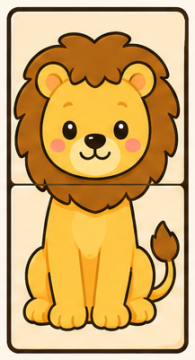
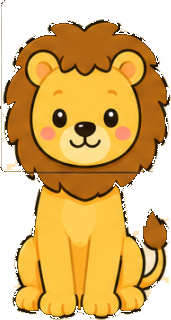
動物画像を全て背景なしの切り抜きに統一し、盤面のふちと枠線を撤廃
- リス・シマウマ・ライオン・キリン・ゾウの画像から、クリーム色の
  カード背景・縁取り枠を除去し、透過背景の切り抜きに統一
- 茂み画像も同様にカードの縁取りを除去し、マスにそのまま置くだけの
  切り抜きに変更
- BoardCell/Boardからマスの罫線・盤面の外枠（背景色パディングによる
  縁取り）を撤廃。land地形は何も描画せず、盤面共通の草原背景画像
  （grass-bg.png）がそのまま透けて見えるようにした

diff --git a/src/components/board.tsx b/src/components/board.tsx
@@ -1,13 +1,14 @@
 import type { RefObject } from 'react';
-import { StyleSheet, View, type LayoutChangeEvent } from 'react-native';
+import { Image, StyleSheet, View, type LayoutChangeEvent } from 'react-native';
 
 import { boundingBox, terrainAt, type GameState, type Pos, type Species } from '@/engine';
-import { colors, ui } from '@/theme';
 
 import { AnimalPiece } from './animal-piece';
 import { BoardCell } from './board-cell';
 import { Draggable } from './draggable';
 import { PopIn } from './pop-in';
+
+const grassBg = require('@/assets/images/terrain/grass-bg.png');
 
 type Props = {
   state: GameState;
@@ -24,7 +25,7 @@ type Props = {
   onFloorLayout?: (e: LayoutChangeEvent) => void;
 };
 
-/** 盤面の描画。voidマスは何も描かず非インタラクティブにすることで非矩形の外形を表現する。 */
+/** 盤面の描画。voidマスは何も描かず非インタラクティブにすることで非矩形の外形を表現する。枠線は持たない。 */
 export function Board({
   state,
   cell,
@@ -46,73 +47,63 @@ export function Board({
   }
 
   return (
-    <View style={styles.frame}>
-      <View ref={floorRef} onLayout={onFloorLayout} style={[styles.floor, { width, height }]}>
-        {cells.map((pos) => {
-          const terrain = terrainAt(stage, pos);
-          if (terrain === 'void') return null;
-          return (
-            <View
-              key={`${pos.r},${pos.c}`}
-              style={[styles.cell, { left: pos.c * cell, top: pos.r * cell, width: cell, height: cell }]}>
-              <BoardCell terrain={terrain} size={cell} />
-            </View>
-          );
-        })}
+    <View ref={floorRef} onLayout={onFloorLayout} style={[styles.floor, { width, height }]}>
+      <Image source={grassBg} resizeMode="cover" style={[StyleSheet.absoluteFill, { width, height }]} />
 
-        {placed.map((animal) => {
-          const { w, h } = boundingBox(animal.species);
-          return (
-            <View
-              key={animal.instanceId}
-              style={[
-                styles.pieceSlot,
-                {
-                  left: animal.anchor.c * cell,
-                  top: animal.anchor.r * cell,
-                  width: w * cell,
-                  height: h * cell,
-                },
-              ]}>
-              <PopIn>
-                <Draggable
-                  onDragStart={(pageX, pageY) => onPieceDragStart(animal.instanceId, animal.species, animal.anchor, pageX, pageY)}
-                  onDragMove={onPieceDragMove}
-                  onDragEnd={onPieceDragEnd}>
-                  <AnimalPiece
-                    species={animal.species}
-                    violating={violatingIds.has(animal.instanceId)}
-                    hidden={animal.instanceId === hiddenInstanceId}
-                    size={{ w: w * cell, h: h * cell }}
-                  />
-                </Draggable>
-              </PopIn>
-            </View>
-          );
-        })}
-      </View>
+      {cells.map((pos) => {
+        const terrain = terrainAt(stage, pos);
+        if (terrain === 'void' || terrain === 'land') return null;
+        return (
+          <View
+            key={`${pos.r},${pos.c}`}
+            style={[styles.cell, { left: pos.c * cell, top: pos.r * cell, width: cell, height: cell }]}>
+            <BoardCell terrain={terrain} size={cell} />
+          </View>
+        );
+      })}
+
+      {placed.map((animal) => {
+        const { w, h } = boundingBox(animal.species);
+        return (
+          <View
+            key={animal.instanceId}
+            style={[
+              styles.pieceSlot,
+              {
+                left: animal.anchor.c * cell,
+                top: animal.anchor.r * cell,
+                width: w * cell,
+                height: h * cell,
+              },
+            ]}>
+            <PopIn>
+              <Draggable
+                onDragStart={(pageX, pageY) => onPieceDragStart(animal.instanceId, animal.species, animal.anchor, pageX, pageY)}
+                onDragMove={onPieceDragMove}
+                onDragEnd={onPieceDragEnd}>
+                <AnimalPiece
+                  species={animal.species}
+                  violating={violatingIds.has(animal.instanceId)}
+                  hidden={animal.instanceId === hiddenInstanceId}
+                  size={{ w: w * cell, h: h * cell }}
+                />
+              </Draggable>
+            </PopIn>
+          </View>
+        );
+      })}
     </View>
   );
 }
 
 const styles = StyleSheet.create({
-  frame: {
-    alignSelf: 'center',
-    backgroundColor: colors.panelBorder,
-    borderRadius: ui.radius + 8,
-    padding: 6,
-    ...ui.shadow,
-    shadowOffset: { width: 0, height: 6 },
-  },
   floor: {
     position: 'relative',
-    backgroundColor: colors.skyBottom,
-    borderRadius: ui.radius,
+    alignSelf: 'center',
     overflow: 'hidden',
   },
   cell: {
     position: 'absolute',
-    padding: 1,
   },
   pieceSlot: {
     position: 'absolute',

diff --git a/src/components/board-cell.tsx b/src/components/board-cell.tsx
@@ -11,24 +11,24 @@ type Props = {
   size: number;
 };
 
-/** 盤面1マス分の地形背景。voidマスは呼び出し側（board.tsx）でそもそも描画しない。 */
+/**
+ * 盤面1マス分の地形。voidマスは呼び出し側（board.tsx）でそもそも描画しない。
+ * landは盤面共通の草原背景がそのまま透けて見えるよう何も描かず、wallは
+ * 切り抜き済みの茂み画像をマスにそのまま置くだけ（枠・背景なし）。
+ */
 export function BoardCell({ terrain, size }: Props) {
   if (terrain === 'wall') {
-    return (
-      <View style={styles.tile}>
-        <Image source={bushArt} resizeMode="cover" style={{ width: size, height: size }} />
-      </View>
-    );
+    return <Image source={bushArt} resizeMode="contain" style={{ width: size, height: size }} />;
+  }
+  if (terrain === 'land') {
+    return null;
   }
   const palette = terrainColors[terrain];
-  return <View style={[styles.tile, { backgroundColor: palette.fill, borderColor: palette.dark }]} />;
+  return <View style={[styles.tile, { backgroundColor: palette.fill }]} />;
 }
 
 const styles = StyleSheet.create({
   tile: {
     flex: 1,
-    borderWidth: 1,
-    borderRadius: 6,
-    overflow: 'hidden',
   },
 });
